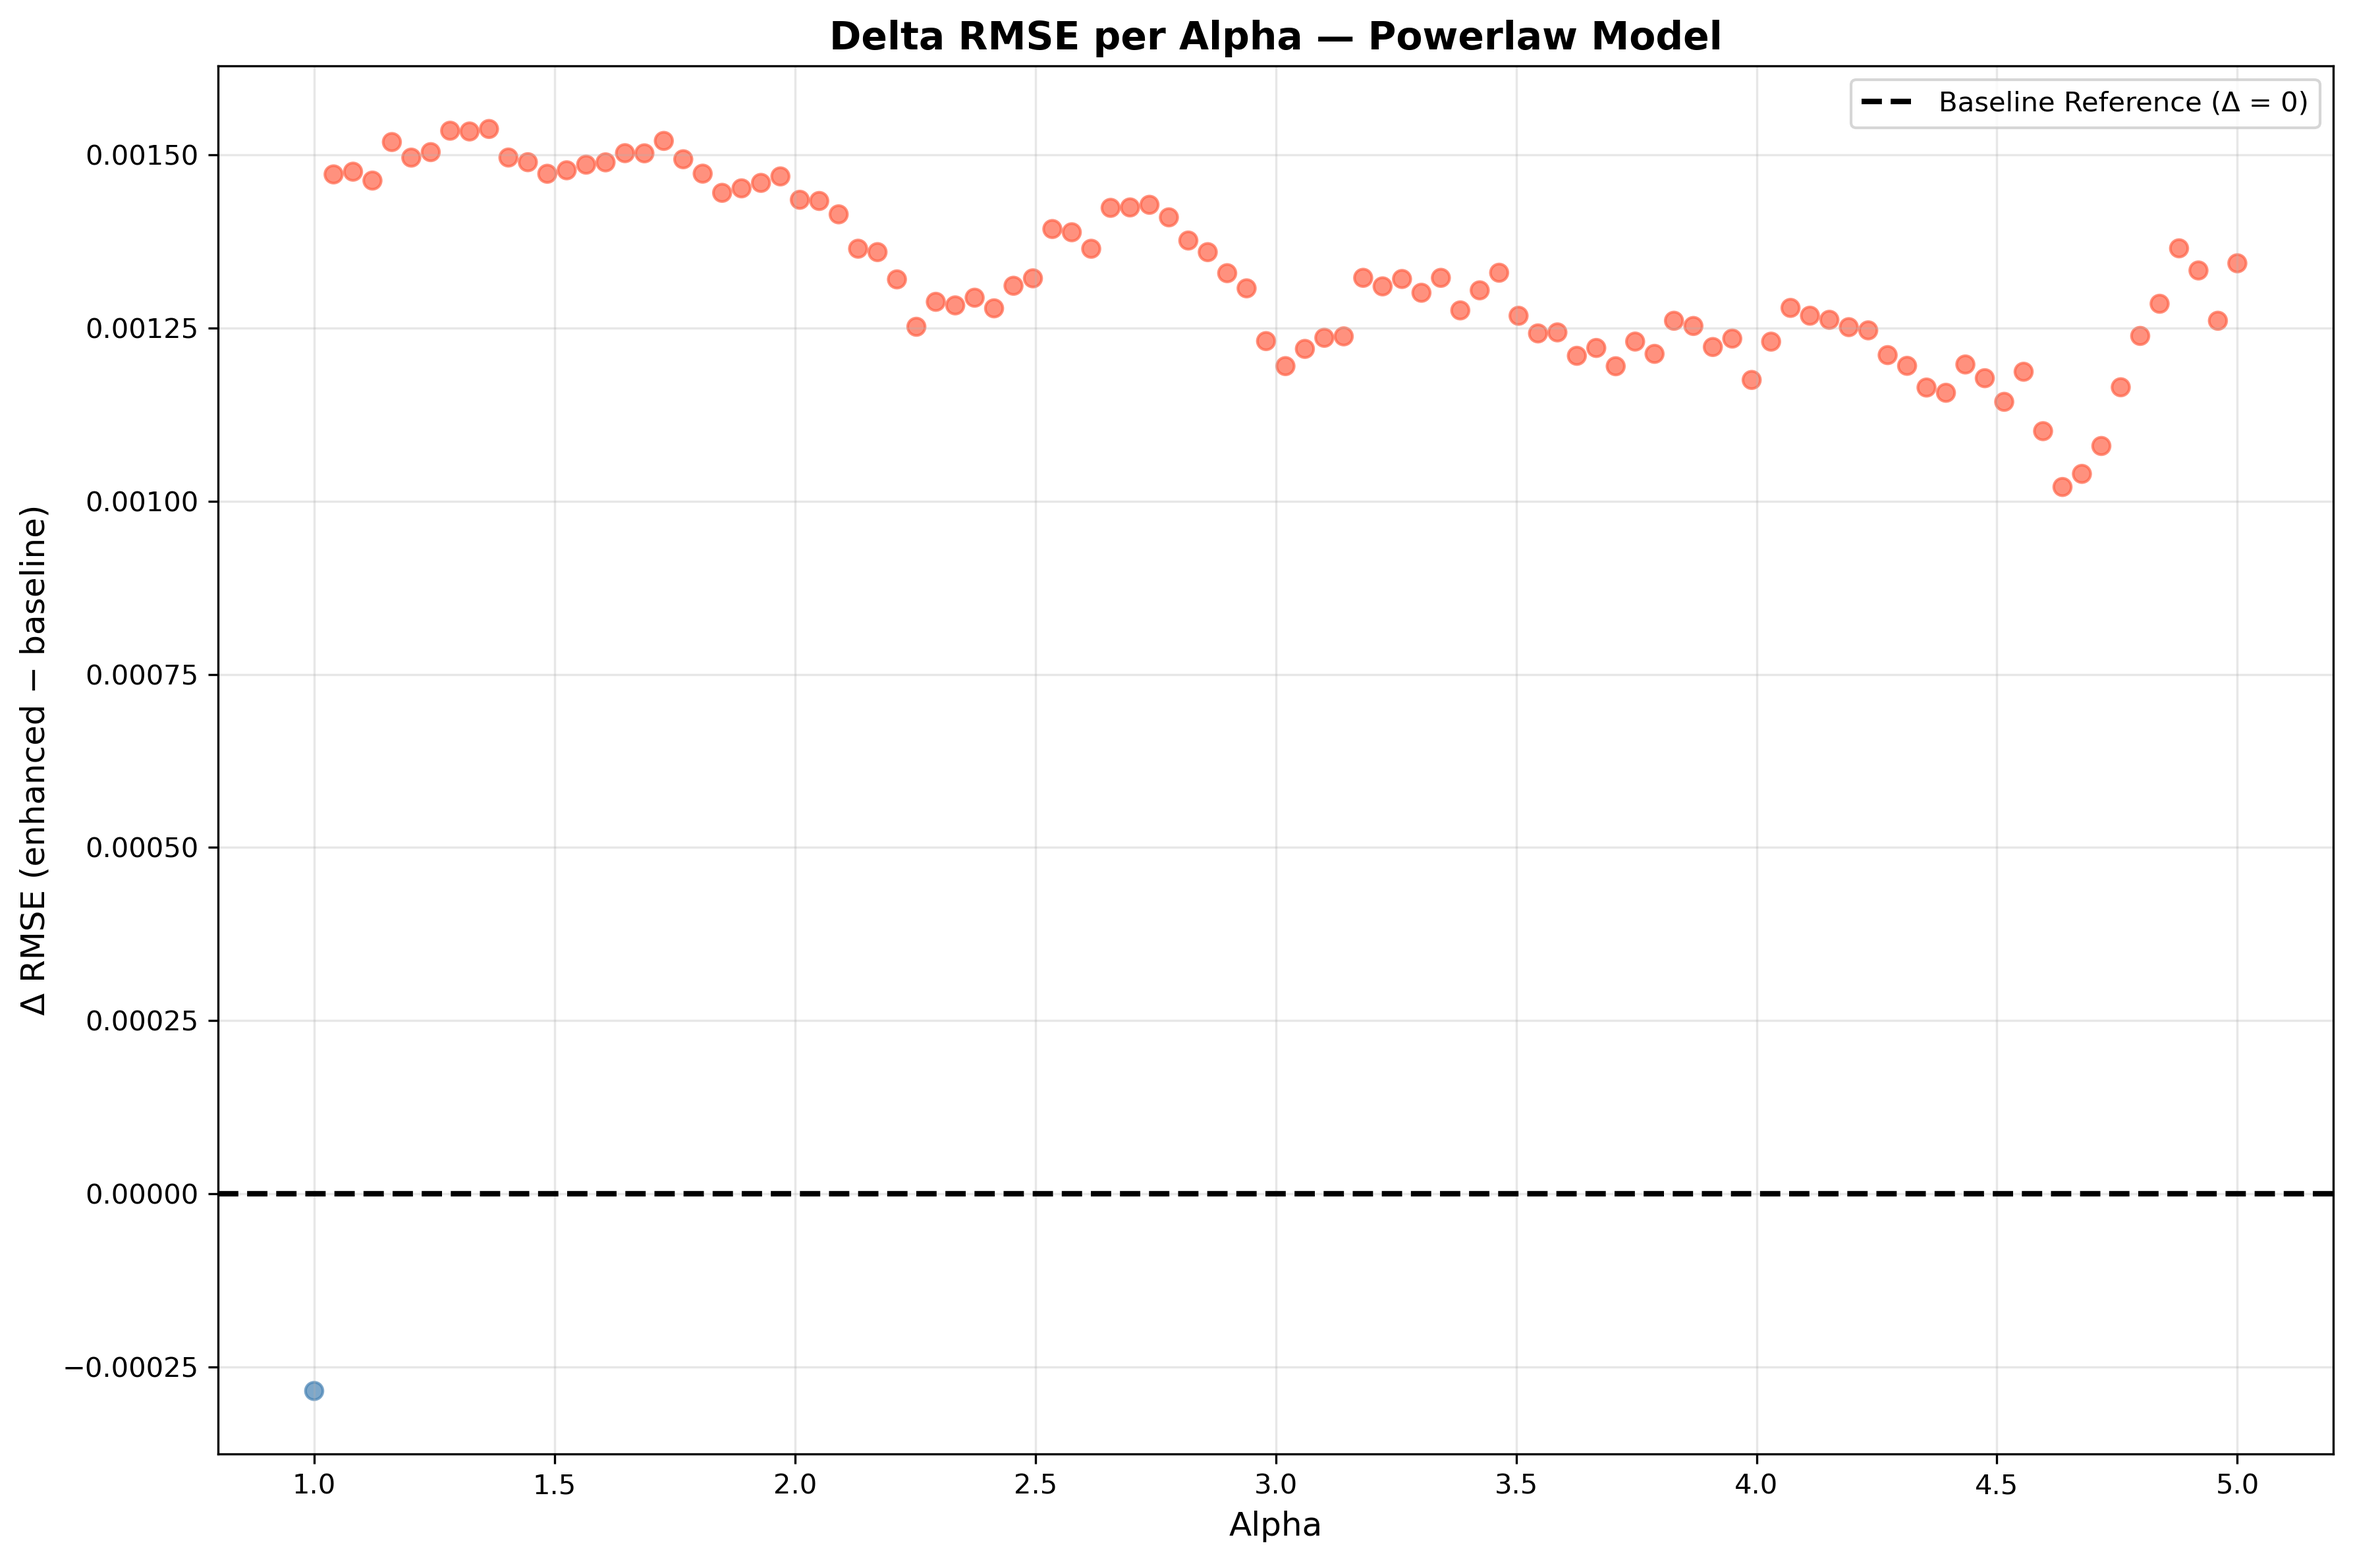
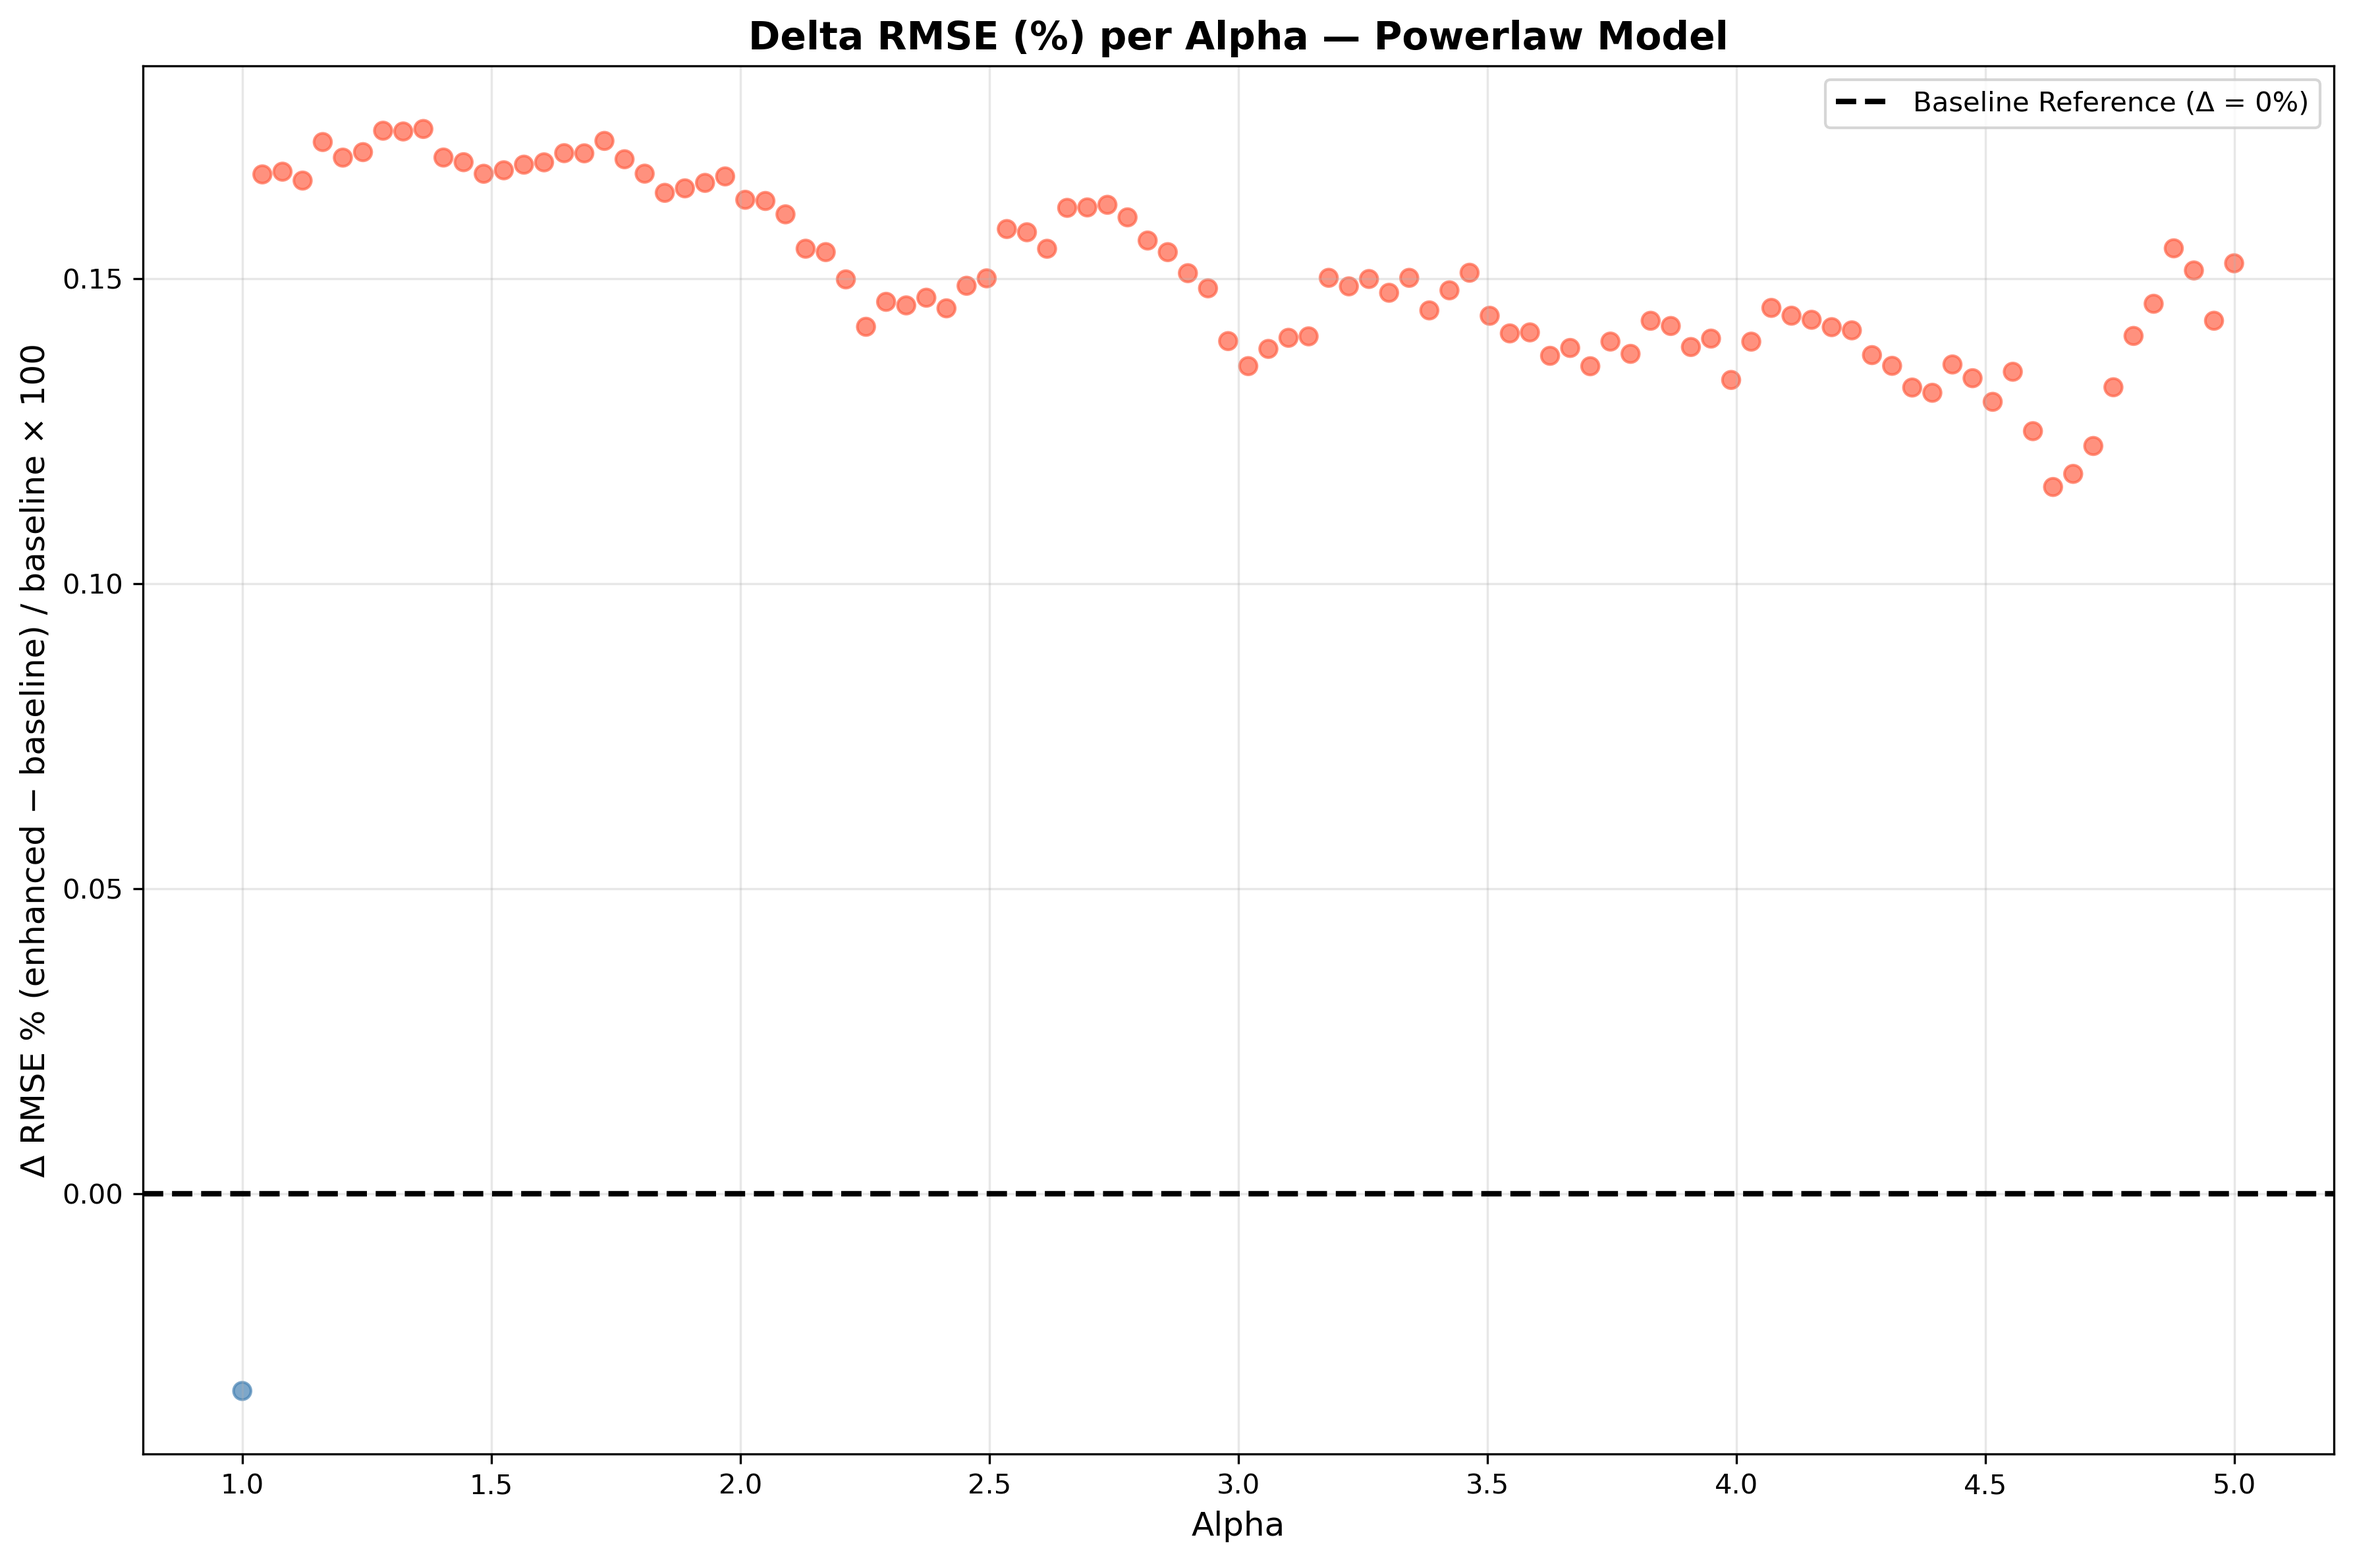
fix(plot): update delta RMSE calculation to percentage and adjust labels

diff --git a/visualization/model_plots.py b/visualization/model_plots.py
@@ -474,22 +474,22 @@ def plot_alpha_delta_rmse(
         print("Mismatch between alpha values and RMSE values — cannot plot.")
         return
 
-    deltas = np.array(rmse_values) - baseline_rmse
-    colours = ["tomato" if d > 0 else "steelblue" for d in deltas]
+    deltas_pct = (np.array(rmse_values) - baseline_rmse) / baseline_rmse * 100
+    colours = ["tomato" if d > 0 else "steelblue" for d in deltas_pct]
 
     plt.figure(figsize=figsize)
-    plt.scatter(alpha_values, deltas, c=colours, s=40, alpha=0.7)
+    plt.scatter(alpha_values, deltas_pct, c=colours, s=40, alpha=0.7)
     plt.axhline(
         0,
         color="black",
         linestyle="--",
         linewidth=2,
-        label="Baseline Reference (Δ = 0)",
+        label="Baseline Reference (Δ = 0%)",
     )
     plt.xlabel("Alpha", fontsize=12)
-    plt.ylabel("Δ RMSE (enhanced − baseline)", fontsize=12)
+    plt.ylabel("Δ RMSE % (enhanced − baseline) / baseline × 100", fontsize=12)
     plt.title(
-        f"Delta RMSE per Alpha — {model_name.capitalize()} Model",
+        f"Delta RMSE (%) per Alpha — {model_name.capitalize()} Model",
         fontsize=14,
         fontweight="bold",
     )
